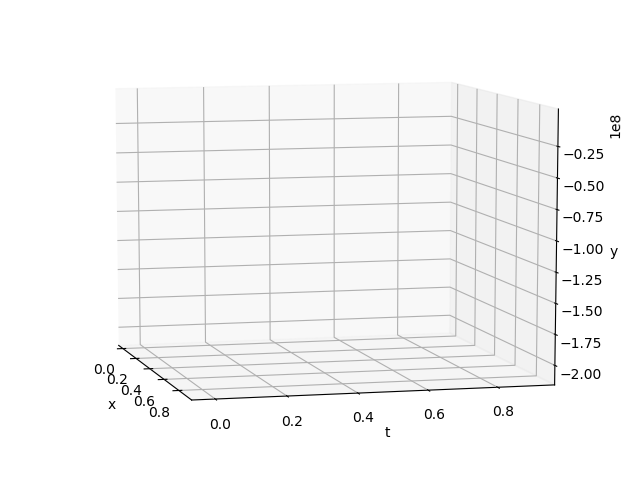
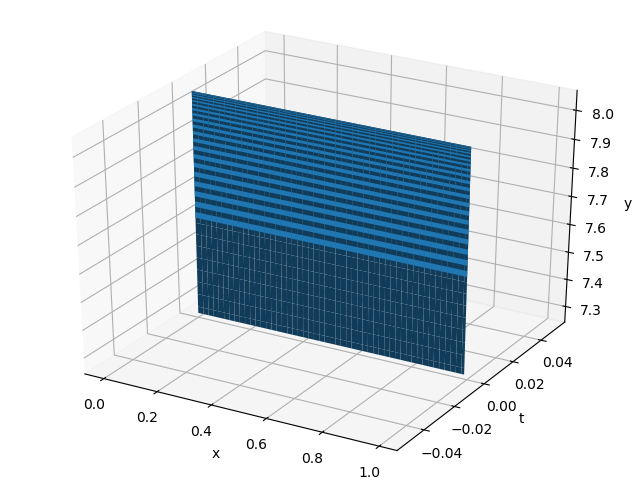
after lesson

diff --git a/main.py b/main.py
@@ -51,7 +51,7 @@ def create_slar():
     Y_0_new = np.array([cn.Y_0[i] - y_model(cn.s_0[i], cn.u, cn.s_m) for i in range(cn.R_0)])
     Y_g_new = np.array([cn.Y_g[i] - y_model(cn.s_g[i], cn.u, cn.s_m) for i in range(cn.R_g)])
 
-    Y_ = np.append(Y_0_new, Y_g_new)
+    Y_ = np.append(Y_0_new, Y_g_new, axis =0)
 
     A_11 = np.zeros((cn.R_0, cn.M_0))
     for i in range(cn.R_0):
@@ -93,12 +93,22 @@ def show_res():
     fig2 = pylab.figure()
     axes = Axes3D(fig2)
 
-    xx= np.arange (0, 1, 0.1)
-    tt = np.arange (0, 1, 0.1)
+    xx = np.zeros(100)
+    tt = np.zeros(100)
+    for i in range(100):
+        xx[i]= i/100
+        
+
+    
+
+    # xx= np.arange (0, 1, 0.1)
+    # tt = np.arange (0, 1, 0.1)
     yy = np.zeros((xx.shape[0], tt.shape[0]))
     for i in range(xx.shape[0]):
         for j in range(tt.shape[0]):
             yy[i][j] = y_res([xx[i],tt[j]], u_)
+    
+            print(yy[i,j], '  ', fn.y([xx[i],tt[j]]))
 
     axes.plot_surface(xx,tt,yy, label = "y(s)")
     axes.set_xlabel("x")                              # подпись у горизонтальной оси х
@@ -111,7 +121,7 @@ def show_res():
 
 if __name__ == '__main__':
     cn.test_observations()
-    print(cn.s_0)
+    #print(cn.s_0)
     show_constant()
     show_test_y()
     u_ = create_slar()

diff --git a/test.py b/test.py
@@ -1,29 +1,16 @@
-import numpy
+import numpy as np
 import pylab
 from mpl_toolkits.mplot3d import Axes3D
 import matplotlib.pyplot as plt
 
-def makeData ():
-    x = numpy.arange (0, 1, 0.1)
-    y = numpy.arange (0, 1, 0.1)
-    xgrid, ygrid = numpy.meshgrid(x, y)
 
-    #zgrid = numpy.sin (xgrid) * numpy.sin (ygrid) / (xgrid * ygrid)
-    zgrid = (xgrid - 0.5)**2 + (ygrid - 0.5)**2
-    return xgrid, ygrid, zgrid
+a11 = np.ones((2,2))
+a12 = 2*np.ones((2,2))
+a21 = np.ones((2,2))*3
+a22 = np.ones((2,2))*4
 
-x, y, z = makeData()
+a1 = np.append(a11,a12, axis= 1)
+a2 = np.append(a21,a22, axis =1)
+a = np.append(a1,a2,axis =0)
 
-fig = pylab.figure()
-axes = Axes3D(fig)
-
-#axes.plot_surface(x, y, z, label = "y(s)")
-axes.scatter(x,y)
-axes.scatter(x,y,1)
-axes.set_xlabel("x")                              # подпись у горизонтальной оси х
-axes.set_ylabel("t")
-axes.set_zlabel("y")
-axes.legend()
-pylab.show()
-
-fig.savefig('1.png')
+print(a)
